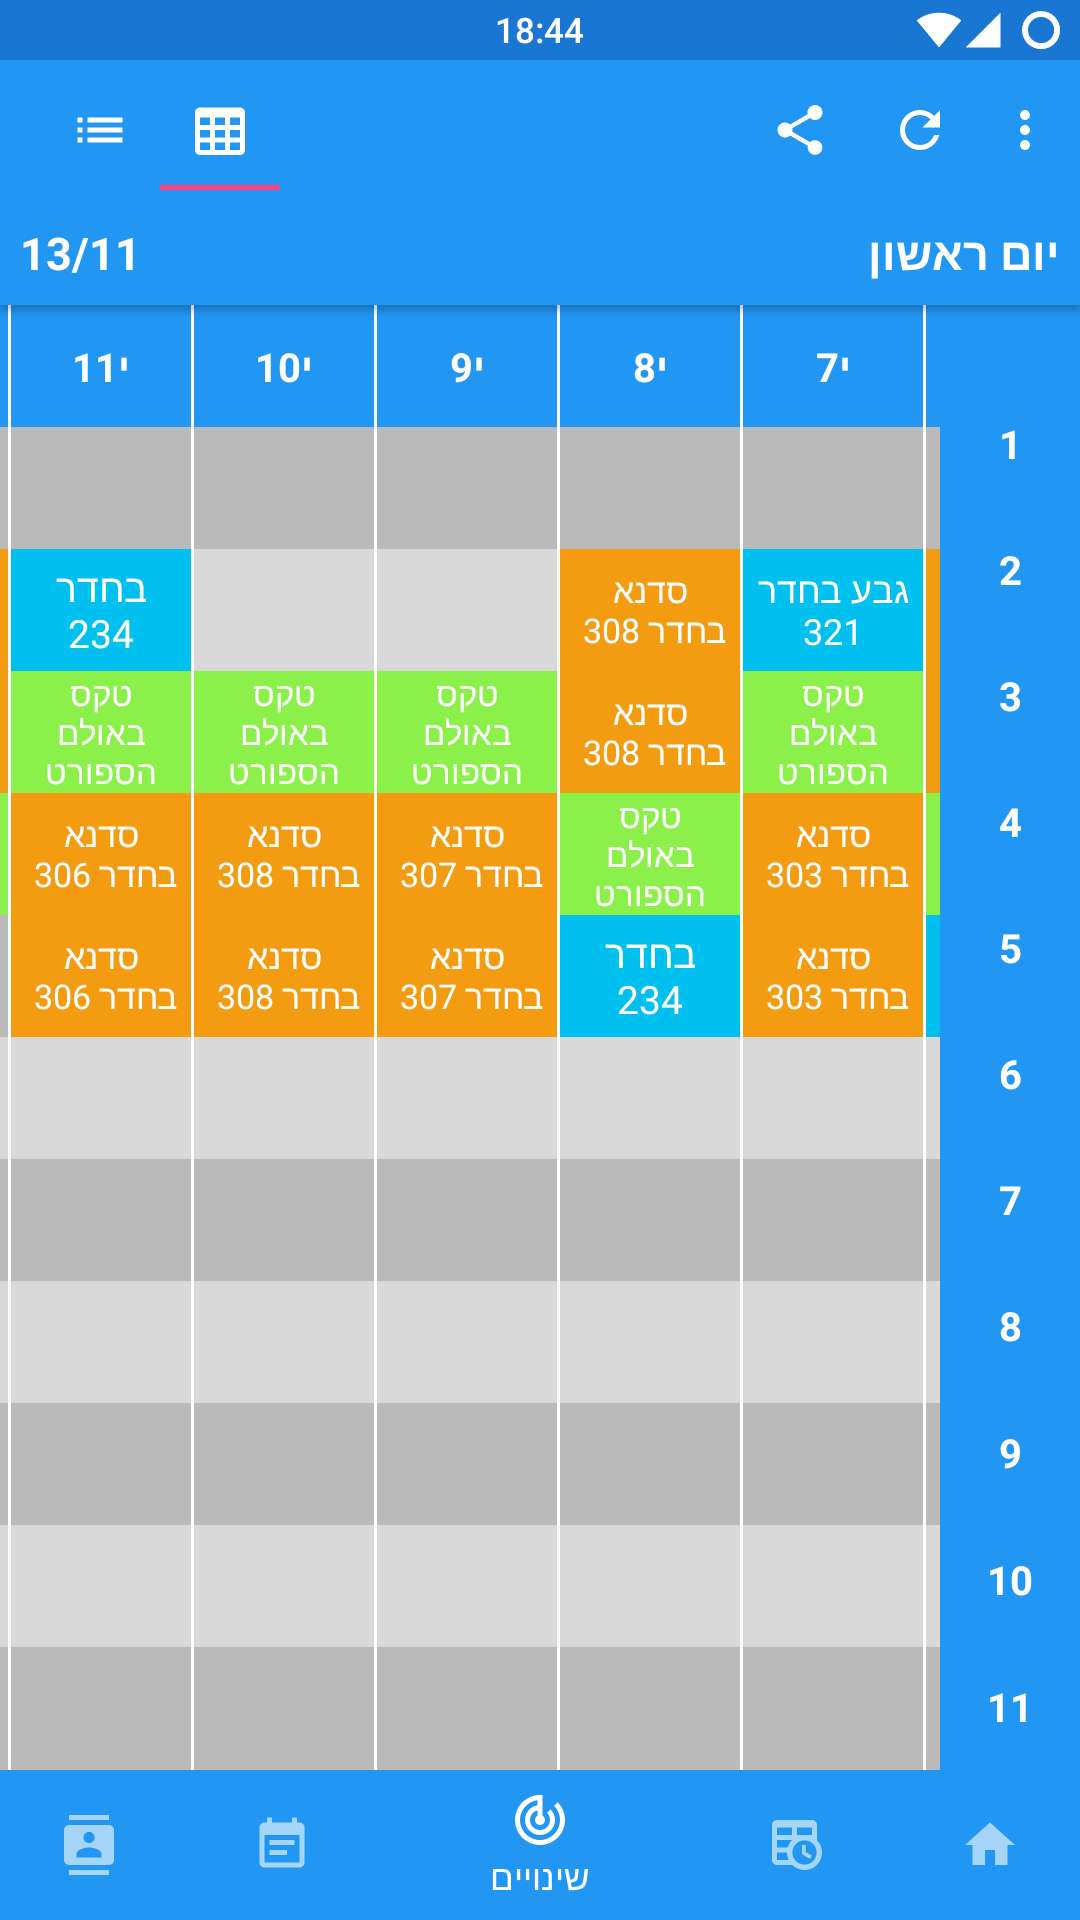
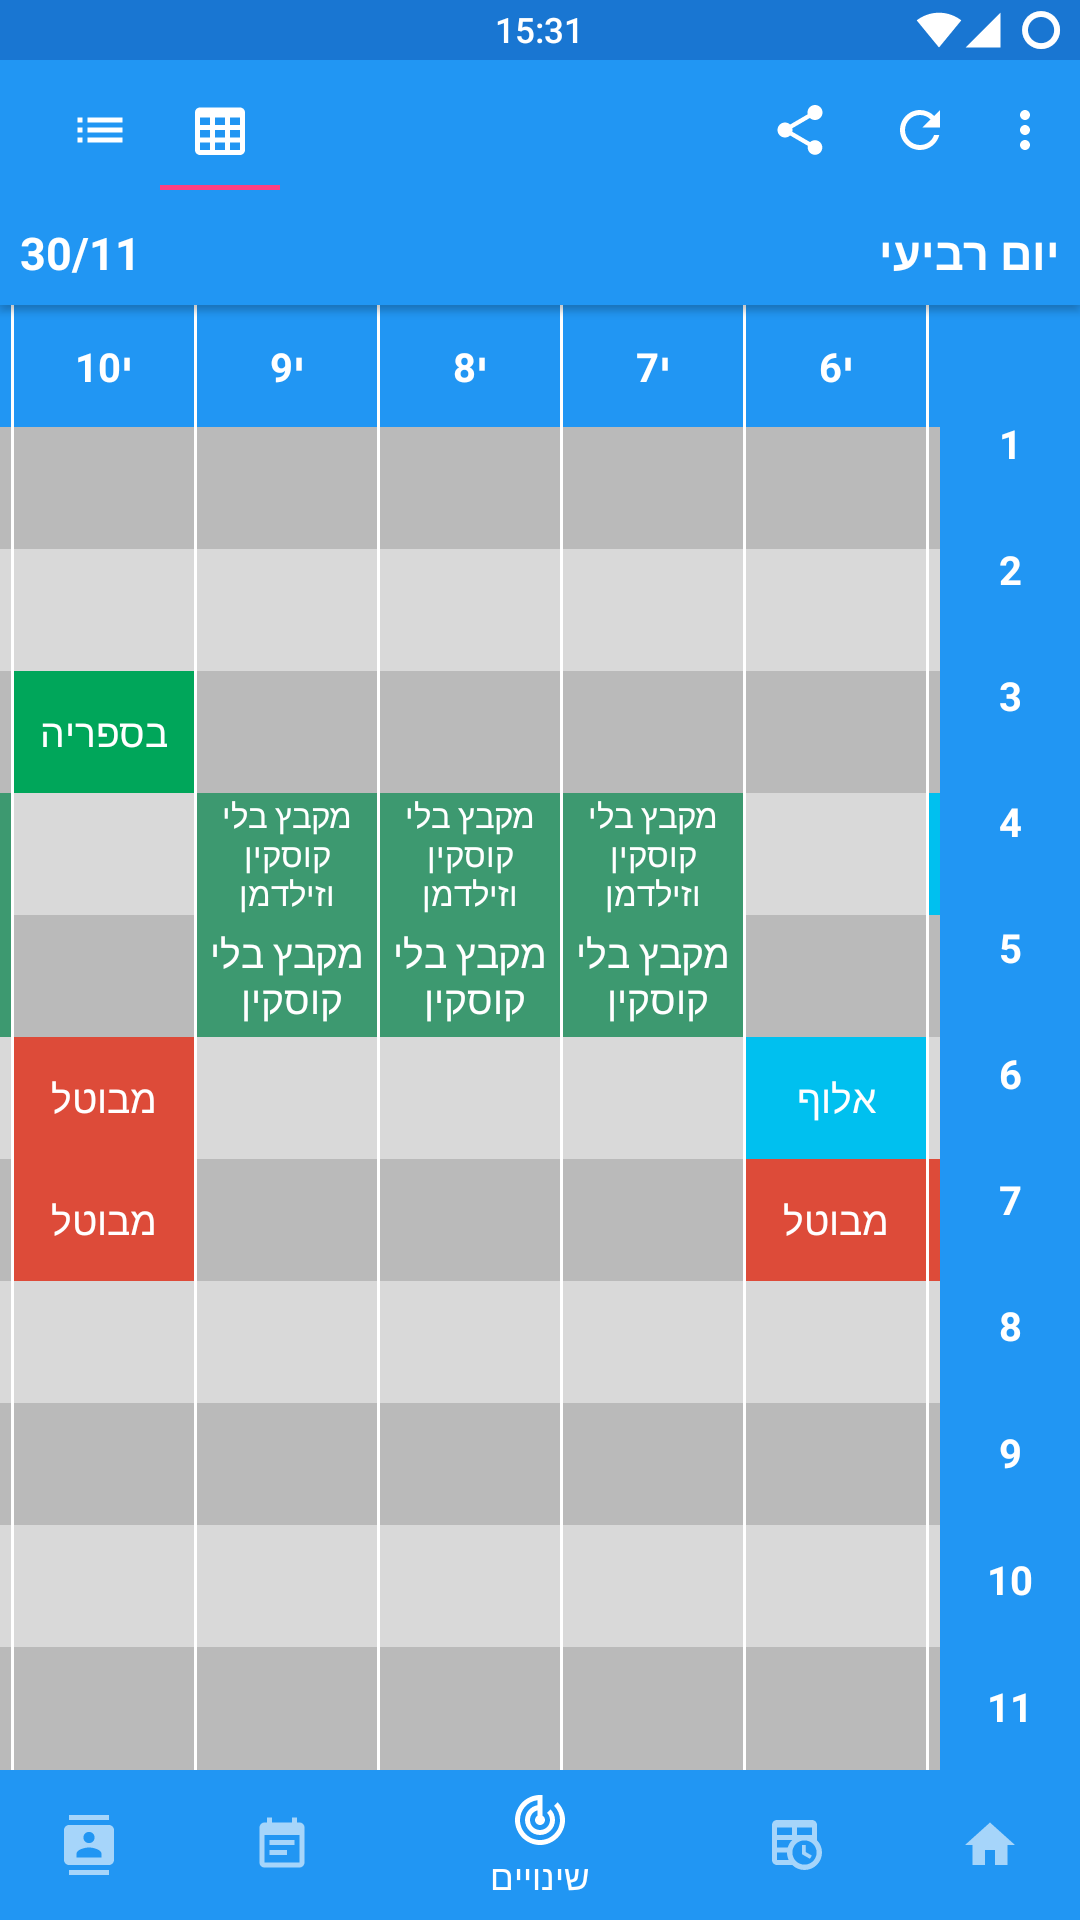
Timetable UI supports teachers, new design of timetable and changes screen, Pixel XL screenshots

diff --git a/app/src/main/java/com/ohelshem/app/android/dashboard/DashboardFragment.kt b/app/src/main/java/com/ohelshem/app/android/dashboard/DashboardFragment.kt
@@ -32,7 +32,7 @@ import com.ohelshem.api.model.Test
 import com.ohelshem.app.android.*
 import com.ohelshem.app.android.utils.BaseMvpFragment
 import com.ohelshem.app.clearTime
-import com.ohelshem.app.controller.storage.UIStorage
+import com.ohelshem.app.controller.storage.Storage
 import com.ohelshem.app.controller.timetable.TimetableController
 import com.ohelshem.app.controller.timetable.TimetableController.Companion.Holiday
 import com.ohelshem.app.model.HourData
@@ -54,7 +54,7 @@ class DashboardFragment : BaseMvpFragment<DashboardView, DashboardPresenter>(), 
 
     private var defaultTextColor: Int = 0
 
-    private val storage: UIStorage by kodein.instance()
+    private val storage: Storage by kodein.instance()
 
     val timeTick = object : BroadcastReceiver() {
         override fun onReceive(context: Context?, intent: Intent?) {
@@ -84,7 +84,7 @@ class DashboardFragment : BaseMvpFragment<DashboardView, DashboardPresenter>(), 
             showHoliday()
         }
 
-        if (storage.firstTimeInApp)
+        if (storage.firstTimeInApp && storage.isStudent())
             showIntro()
     }
 
@@ -131,8 +131,12 @@ class DashboardFragment : BaseMvpFragment<DashboardView, DashboardPresenter>(), 
 
             if (data.hour.isEmpty())
                 lessonName.htmlText = bold { windowLesson }
-            else
-                lessonName.htmlText = bold { data.hour.name } + with + data.hour.teacher
+            else {
+                if ("|" in data.hour.name)
+                    lessonName.htmlText = bold { data.hour.name.split("|")[0] } + with + data.hour.name.split("|")[1]
+                else
+                    lessonName.htmlText = bold { data.hour.name } + with + data.hour.teacher
+            }
         }
     }
 
@@ -184,8 +188,12 @@ class DashboardFragment : BaseMvpFragment<DashboardView, DashboardPresenter>(), 
 
                 if (data.nextHour.isEmpty())
                     nextLessonName.htmlText = bold { windowLesson }
-                else
-                    nextLessonName.htmlText = bold { data.nextHour.name } + with + data.nextHour.teacher
+                else {
+                    if ("|" in data.nextHour.name)
+                        nextLessonName.htmlText = bold { data.nextHour.name.split("|")[0] } + with + data.nextHour.name.split("|")[1]
+                    else
+                        nextLessonName.htmlText = bold { data.nextHour.name } + with + data.nextHour.teacher
+                }
             }
         }
     }

diff --git a/app/src/main/java/com/ohelshem/app/android/changes/clazz/ChangesAdapter.kt b/app/src/main/java/com/ohelshem/app/android/changes/clazz/ChangesAdapter.kt
@@ -17,6 +17,7 @@
 
 package com.ohelshem.app.android.changes.clazz
 
+import android.graphics.Typeface
 import android.support.design.widget.CoordinatorLayout
 import android.support.design.widget.Snackbar
 import android.support.v7.widget.RecyclerView
@@ -24,6 +25,7 @@ import android.view.View
 import android.view.ViewGroup
 import com.ohelshem.api.model.Change
 import com.ohelshem.api.model.Hour
+import com.ohelshem.app.android.fromHtml
 import com.ohelshem.app.android.timetable.adapter.TimetableAdapter
 import com.ohelshem.app.controller.timetable.TimetableController
 import com.yoavst.changesystemohelshem.R
@@ -48,14 +50,15 @@ class ChangesAdapter(items: List<Change>, val timetable: Array<Hour>, val coordi
         val hour = if (position < timetable.size) timetable[position] else null
         holder.lesson.text = (position + 1).toString()
         if (item == null) {
-            holder.text.text = hour?.let { it.name + " " + it.teacher } ?: ""
+            holder.text.text = hour?.let { ("<b>"+it.name + "</b><br>" + "<small><font color='#ECEFF1'>" + it.teacher + "</font></small>").fromHtml() } ?: ""
             holder.background.backgroundDrawable = TimetableAdapter.createLessonDrawable(hour?.color ?: TimetableController.ColorEmpty)
             holder.lesson.backgroundResource = R.drawable.number_circle
             holder.itemView.onClick(EmptyCallback)
         } else {
             holder.text.text = item.content
-            holder.background.background = TimetableAdapter.createLessonDrawable(item.color)
+            holder.background.backgroundDrawable = TimetableAdapter.createLessonDrawable(item.color)
             holder.lesson.backgroundResource = R.drawable.number_circle_change
+            holder.text.setTypeface(holder.lesson.typeface, Typeface.ITALIC)
             holder.background.onClick { v ->
                 if (!(hour?.isEmpty() ?: true))
                     snackbar(hour!!.name + with + hour.teacher)

diff --git a/app/src/main/java/com/ohelshem/app/android/notifications/OngoingNotificationService.kt b/app/src/main/java/com/ohelshem/app/android/notifications/OngoingNotificationService.kt
@@ -30,6 +30,8 @@ class OngoingNotificationService : IntentService("OhelShemOngoingNotificationSer
     val storage: Storage by kodein.instance()
     val timetableController: TimetableController by kodein.instance()
 
+    private val with by lazy { " " + getString(R.string.with) + " " }
+
     override fun onHandleIntent(intent: Intent?) {
         val cal = Calendar.getInstance()
         val day = cal.getDay()
@@ -101,9 +103,16 @@ class OngoingNotificationService : IntentService("OhelShemOngoingNotificationSer
 
         if (orig != null)
             s = SpannableString(if (withoutNoMikbatz) text else text + " (" + (if (withoutYesMikbatz || withoutNoName) "" else getString(R.string.instead) + " ") + orig + ")")
-        else
-            s = SpannableString(text)
-        s.setSpan(StyleSpan(Typeface.BOLD), 0, text.length, 0)
+        else {
+            if ("|" in text) {
+                s = SpannableString(text.split("|")[0] + with + text.split("|")[1])
+                s.setSpan(StyleSpan(Typeface.BOLD), 0, text.split("|")[0].length, 0)
+            }
+            else {
+                s = SpannableString(text)
+                s.setSpan(StyleSpan(Typeface.BOLD), 0, text.length, 0)
+            }
+        }
         return s
     }
 

diff --git a/app/src/main/java/com/ohelshem/app/android/timetable/adapter/TimetableAdapter.kt b/app/src/main/java/com/ohelshem/app/android/timetable/adapter/TimetableAdapter.kt
@@ -26,6 +26,7 @@ import android.view.View
 import android.view.ViewGroup
 import android.widget.TextView
 import com.ohelshem.api.model.Hour
+import com.ohelshem.app.android.fromHtml
 import com.ohelshem.app.controller.timetable.TimetableController
 import com.yoavst.changesystemohelshem.R
 import kotlinx.android.synthetic.main.timetable_item.view.*
@@ -44,7 +45,10 @@ class TimetableAdapter(val context: Context, val items: Array<Hour>, val listene
     override fun onBindViewHolder(holder: VH, position: Int) {
         val item = items[position]
         holder.lesson.text = (position + 1).toString()
-        holder.text.text = item.name + " " + item.teacher
+        if ("|" in item.name)
+            holder.text.text = ("<b>"+item.name.split("|")[0] + "</b><br>" + "<small><font color='#ECEFF1'>" + item.name.split("|")[1] + "</font></small>").fromHtml()
+        else
+            holder.text.text = ("<b>"+item.name + "</b><br>" + "<small><font color='#ECEFF1'>" + item.teacher + "</font></small>").fromHtml()
         holder.background.backgroundDrawable = createLessonDrawable(item.color)
         holder.hour.text = TimetableController.getStartOfHour(position + 1)
         holder.tillHour.text = TimetableController.getEndOfHour(position + 1)
